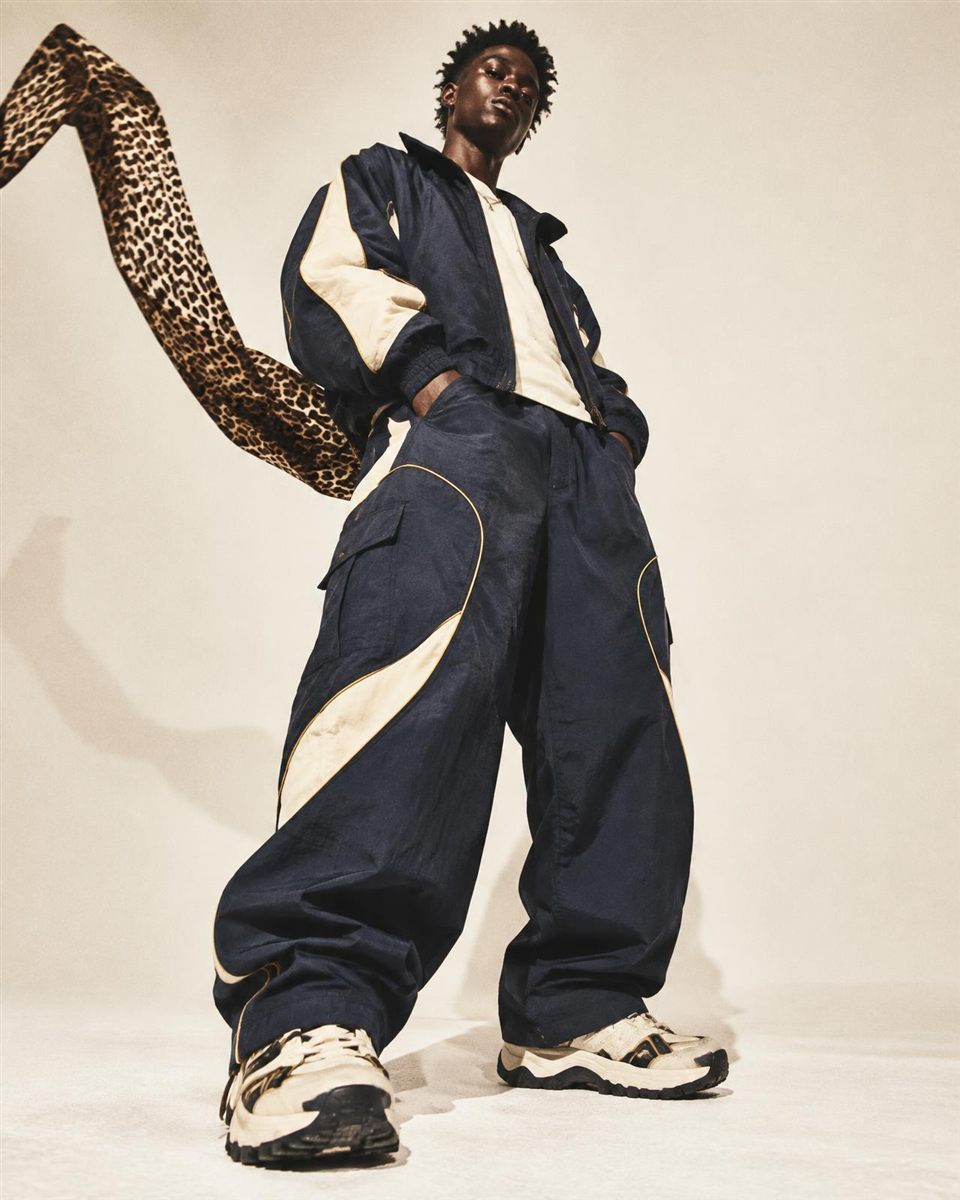
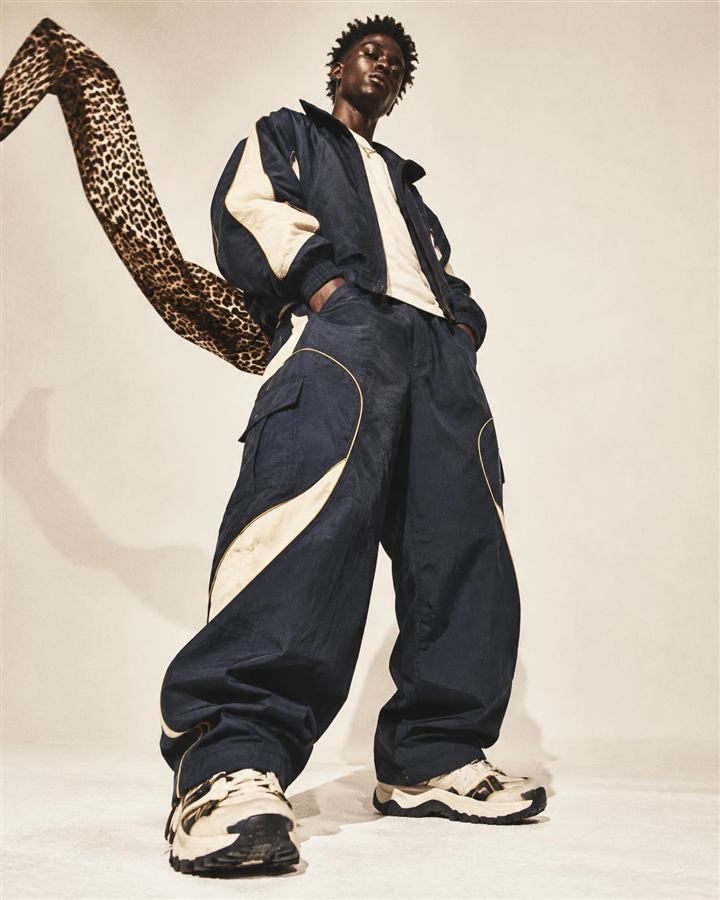
Tune responsive image sizes

diff --git a/src/components/afrostate/PublicSite.tsx b/src/components/afrostate/PublicSite.tsx
@@ -96,7 +96,7 @@ export function PublicSite() {
           <JoinButton className="mt-7 w-fit" />
         </div>
         <div className="hero-photo relative min-h-[48vh] overflow-hidden border-4 border-foreground bg-muted shadow-[9px_9px_0_var(--foreground)] md:min-h-0">
-          <img src={designs[0].image} alt={designs[0].alt} width={1280} height={1600} fetchPriority="high" className="h-full w-full object-cover object-center" />
+          <img src={designs[0].image} alt={designs[0].alt} width={720} height={900} fetchPriority="high" className="h-full w-full object-cover object-center" />
           <span className="absolute bottom-4 right-4 rotate-[-5deg] border-2 border-foreground bg-primary px-4 py-2 font-display text-2xl">001</span>
         </div>
         <img src={brand.logo} alt="" aria-hidden width={640} height={520} className="hero-logo pointer-events-none absolute bottom-1 left-[38%] z-20 hidden w-64 rotate-[-8deg] border-4 border-foreground md:block" />
@@ -119,7 +119,7 @@ export function PublicSite() {
           <div className="lookbook-grid">
             {designs.map((design, index) => <article key={design.id} onMouseEnter={() => setDropCursor((cursor) => ({ ...cursor, visible: true }))} onMouseLeave={() => setDropCursor((cursor) => ({ ...cursor, visible: false }))} onMouseMove={(event) => setDropCursor({ x: event.clientX, y: event.clientY, visible: true })} className={`design-card design-${index + 1} group relative overflow-hidden border-4 border-foreground bg-muted shadow-[7px_7px_0_var(--foreground)]`}>
               <button type="button" onClick={() => setSelected(design)} aria-label={`View ${design.name}`} className="absolute inset-0 z-10 block h-full w-full cursor-pointer" />
-              <img src={design.image} alt={design.alt} width={1280} height={1600} loading="lazy" className="h-full w-full object-cover transition duration-700 group-hover:scale-[1.035] group-hover:rotate-[0.4deg]" />
+              <img src={design.image} alt={design.alt} width={720} height={900} loading="lazy" className="h-full w-full object-cover transition duration-700 group-hover:scale-[1.035] group-hover:rotate-[0.4deg]" />
               <span className="design-number absolute left-3 top-3 z-20 border-2 border-foreground bg-background px-3 py-1 font-mono text-xs font-black">{design.id} / 010</span>
               <div className="absolute inset-x-0 bottom-0 z-20 flex translate-y-1 flex-wrap items-center justify-between gap-3 bg-primary p-4 text-foreground transition-transform group-hover:translate-y-0"><div><span className="font-mono text-xs">{design.category}</span><h3 className="font-display text-2xl">{design.name}</h3></div>
                 <div className="flex items-center gap-2">
@@ -134,7 +134,7 @@ export function PublicSite() {
       </section>
 
       <section className="relative min-h-[88vh] overflow-hidden border-b-4 border-foreground">
-        <img src={designs[2].image} alt={designs[2].alt} width={1536} height={1024} loading="lazy" className="absolute inset-0 h-full w-full object-cover" />
+        <img src={designs[2].image} alt={designs[2].alt} width={900} height={600} loading="lazy" className="absolute inset-0 h-full w-full object-cover" />
         <div className="absolute inset-0 bg-foreground/25" />
         <div className="absolute inset-x-0 bottom-0 p-5 text-background md:p-12"><p className="font-mono font-bold">DROP 001</p><p className="font-display text-[clamp(5rem,17vw,15rem)] uppercase leading-[0.72]">Afrostate</p></div>
       </section>
@@ -143,7 +143,7 @@ export function PublicSite() {
       <Marquee small />
 
       <section className="grid border-b-4 border-foreground md:grid-cols-2">
-        <div className="min-h-[520px] overflow-hidden border-b-4 border-foreground md:border-b-0 md:border-r-4"><img src={designs[1].image} alt={designs[1].alt} width={1024} height={1280} loading="lazy" className="h-full w-full object-cover" /></div>
+        <div className="min-h-[520px] overflow-hidden border-b-4 border-foreground md:border-b-0 md:border-r-4"><img src={designs[1].image} alt={designs[1].alt} width={720} height={900} loading="lazy" className="h-full w-full object-cover" /></div>
         <div className="flex flex-col justify-center bg-background p-7 md:p-14 lg:p-20"><Sticker className="mb-8 w-fit rotate-3">MORE THAN A FIT</Sticker><h2 className="section-title font-display uppercase">More than<br/>clothes.</h2><p className="mt-7 max-w-lg text-xl font-bold leading-relaxed">Identity in motion. Culture without a dress code. AFROSTATE is for the loud ideas, the individual choices and the creativity that refuses to sit still.</p></div>
       </section>
 
